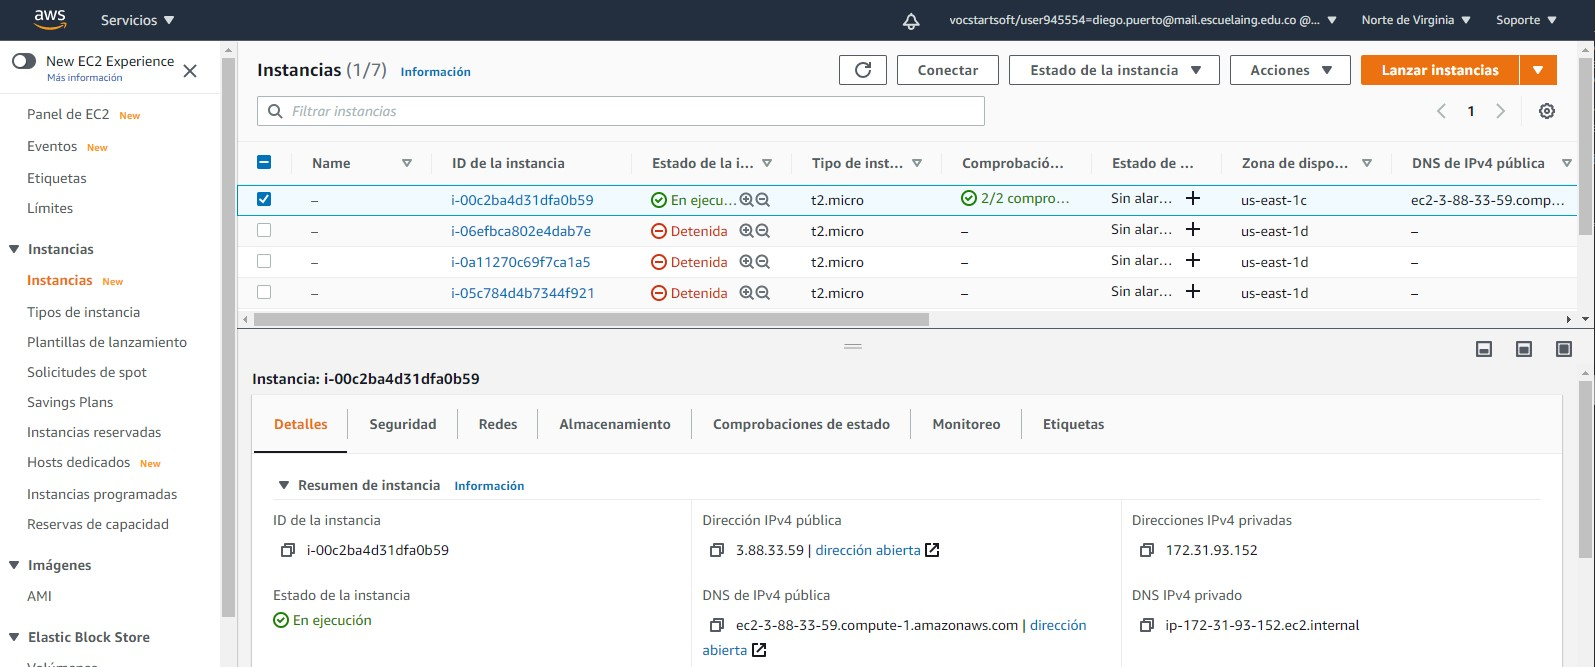
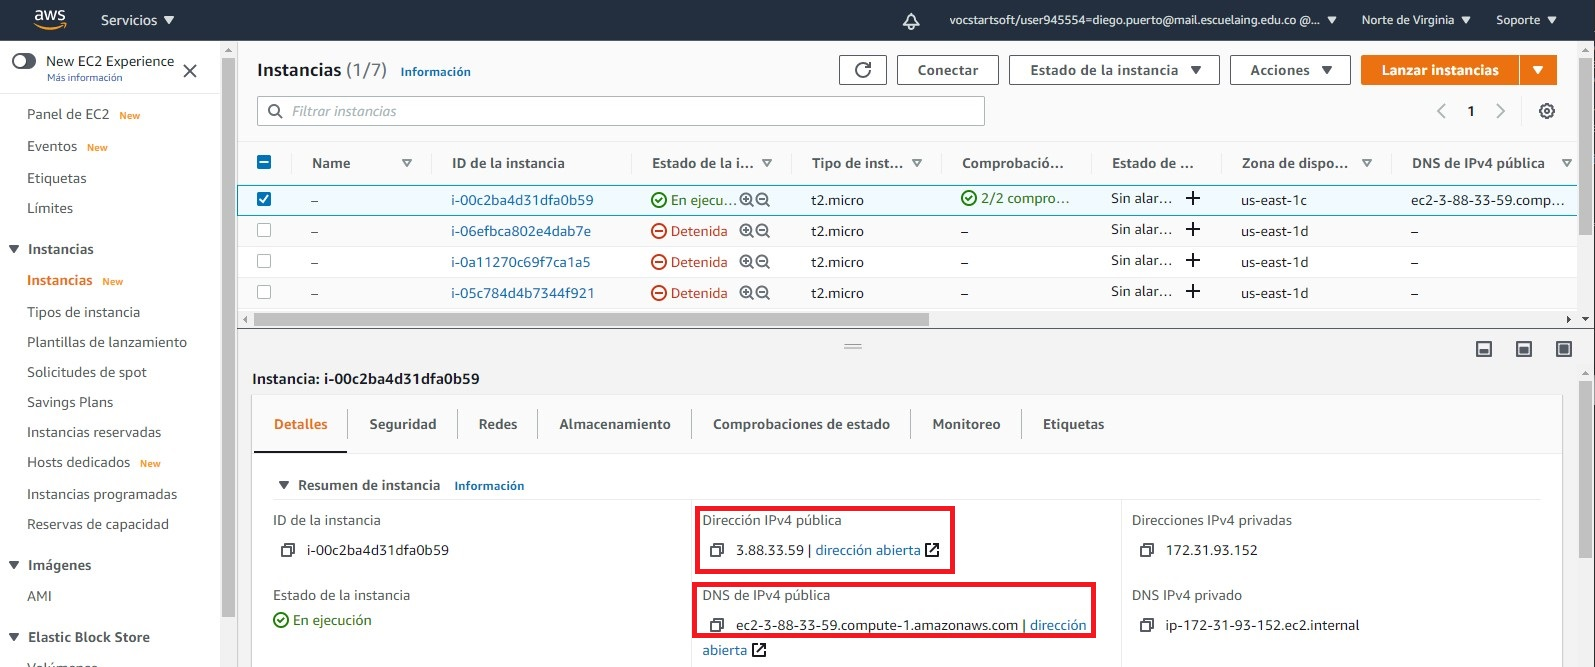
Guidelines AWS to lab-05

Changed region(s): [[0.4301, 0.7496, 0.7066, 0.9595]]

diff --git a/README.md b/README.md
@@ -9,7 +9,7 @@ Con EC2```
 
 ![](img/1.jpg)
 
-2. Seleccionar la Amazon Machine Image(AMI) ```Amazon Linux AMI 2018.03.0 (HVM), SSD Volume Type```
+2. Seleccionar ```Amazon Linux 2 AMI (HVM), SSD Volume Type``` en ```64-bit (x86)```
 
 ![](img/2.jpg)
 
@@ -26,7 +26,7 @@ Con EC2```
 7. Una vez teniendo el archivo .pem seleccionar ```Launch Inatances```
 8. Al ver las instancias estará inicializando la EC2
 
-## Hacer puertos accesibles
+## Hacer puertos accesibles de una inatancia EC2
 Luego de que la instancia de EC2 esté en ejecución y lista para ser accedida:
 
 ![](img/5.jpg)
@@ -41,7 +41,9 @@ Especificar los puertos para hacerlos accesibles y realizar conexiones a la inst
 
 ![](img/7.jpg)
 
-Para este punto es necesario abrir solo el puerto 8083, el cual permitirá hacer solititudes al servicio REST: 
+- Si va a configurar los usuarios y la utenticación de ```influxDB``` por medio de la API REST, es necesario abrir el puerto 8086
+- Para usar la ```web UI``` de Flink, es necesario abrir el puerto 8081
+- Para acceder a la ```web UI``` de Grafana, es necesario abrir el puerto 3000
 
 ![](img/8.jpg)
 
@@ -54,7 +56,7 @@ Al conectarse debería ver algo como lo siguiente:
 
 así tiene acceso y manipulación sobre la instancia EC2
 
-## Instalar Docker en AWS
+## Instalar Docker en una inatancia EC2
 En la consola de EC2:
 1. ```sudo yum update -y```
 2. ```sudo yum install docker```
@@ -68,6 +70,10 @@ Para poder ejecutar el comando Docker-compose en EC2: [Instalación de docker-co
 Para comprobar que Docker fue instalado exitosamente puede ejecutar ```docker --version```, para comprobar que el servicio se esta ejecutando ```docker ps```(no debería mostrar errores) y para comprobar que puede ejecutar el comando docker-compose ```docker-compose --version```:
 
 ![](img/10.jpg)
+
+## Instalar Apache Maven & Java 8 en una inatancia EC2
+
+Para poder ejecutar el proyecto Maven de ```simple-flink-job```, es necesario [instalar Maven y Java 8](https://docs.aws.amazon.com/neptune/latest/userguide/iam-auth-connect-prerq.html) en la instancia EC2.
 
 ## Transferir zip del proyecto
 Es recomendable tener el ZIP del proyecto en donde está el archivo .pem para transferirlo con facilidad
@@ -86,35 +92,21 @@ Es recomendable tener el ZIP del proyecto en donde está el archivo .pem para tr
 
 ![](img/14.jpg)
 
-## Configuración del conector MQTT
-En este punto ya debería tener el archivo del proyecto, docker y docker-compose instalados en la instancia EC2.
-1. Ejecutar los contenedores como en el laboratorio 3.
+## Detalles en EC2
+En este punto ya debería tener el archivo del proyecto, ```docker```, ```docker-compose```, ```Maven``` y ```Java 8``` instalados en su instancia EC2.
 
-Nota: Al ejecutar el docker-compose dentro de EC2 puede que arroje el error ```there is insufficient memory for the java runtime environment to continue```, para esto se muestra una solución en [JRE out of memory in Docke](https://stackoverflow.com/questions/45129299/jre-out-of-memory-in-docker)
+1. Al ejecutar el docker-compose dentro de EC2, puede que arroje el error ```there is insufficient memory for the java runtime environment to continue```, para esto se muestra una solución en [JRE out of memory in Docke](https://stackoverflow.com/questions/45129299/jre-out-of-memory-in-docker)
 
-2. Para asegurar que los servicios se ejecutan correctamente, con el comando ```docker ps``` debería ver algo como:
+2. Para asegurar que los servicios se ejecutan correctamente (confirmar que el estado de todos es ```Up```), con el comando ```docker ps -a``` debería ver algo como:
 
 ![](img/17.jpg)
 
-3. Antes de configurar el conector MQTT, puede hacer una petición GET en cualquier buscador para verificar que esté funcionando correctamente:
-
-![](img/18.jpg)
-
-4. Para la configuración del conector MQTT solo debería variar (con respecto al Lab3) que en la ejecución del cliente REST, este debería hacerse a la dirección de la instancia EC2 el lugar de localhost:
-
-![](img/15.jpg)
-
-Esta es visible en la pestaña ```Detalles``` de la instancia, específicamente en ```Dirección IPv4 pública``` o ```DNS de IPv4 pública```
+Para acceder a los servicios de Docker que ofrecen una ```web UI```, se puede consultar en el browser ya sea por su dirección ipv4 pública o por su correspondiente DNS, cada uno de ellos. Estos son visibles en la pestaña ```Detalles``` de la instancia, específicamente en ```Dirección IPv4 pública``` o ```DNS de IPv4 pública```
 
 ![](img/16.jpg)
 
-5. Al consultar el path ```/connectors/cloud-mqtt-source/status``` su estado debería ser RUNNING:
+Por ejemplo, el acceso a Grafana debería poderse consultar por el puerto 3000
 
-![](img/19.jpg)
+![](img/18.jpg)
 
-6. Luego de seguir los pasos del lab 3 configurando un nuevo tópico ```feeds/data```
-
-![](img/20.jpg)
-
-Al postear información en el broker con el ESP debería ver en la terminal del docker-compose la información que esta posteando:
-
+**En este punto, ya debería cumplir todos los prerrequisitos para llevar su solución local del laboratorio 5, hacia una instancia EC2.**
